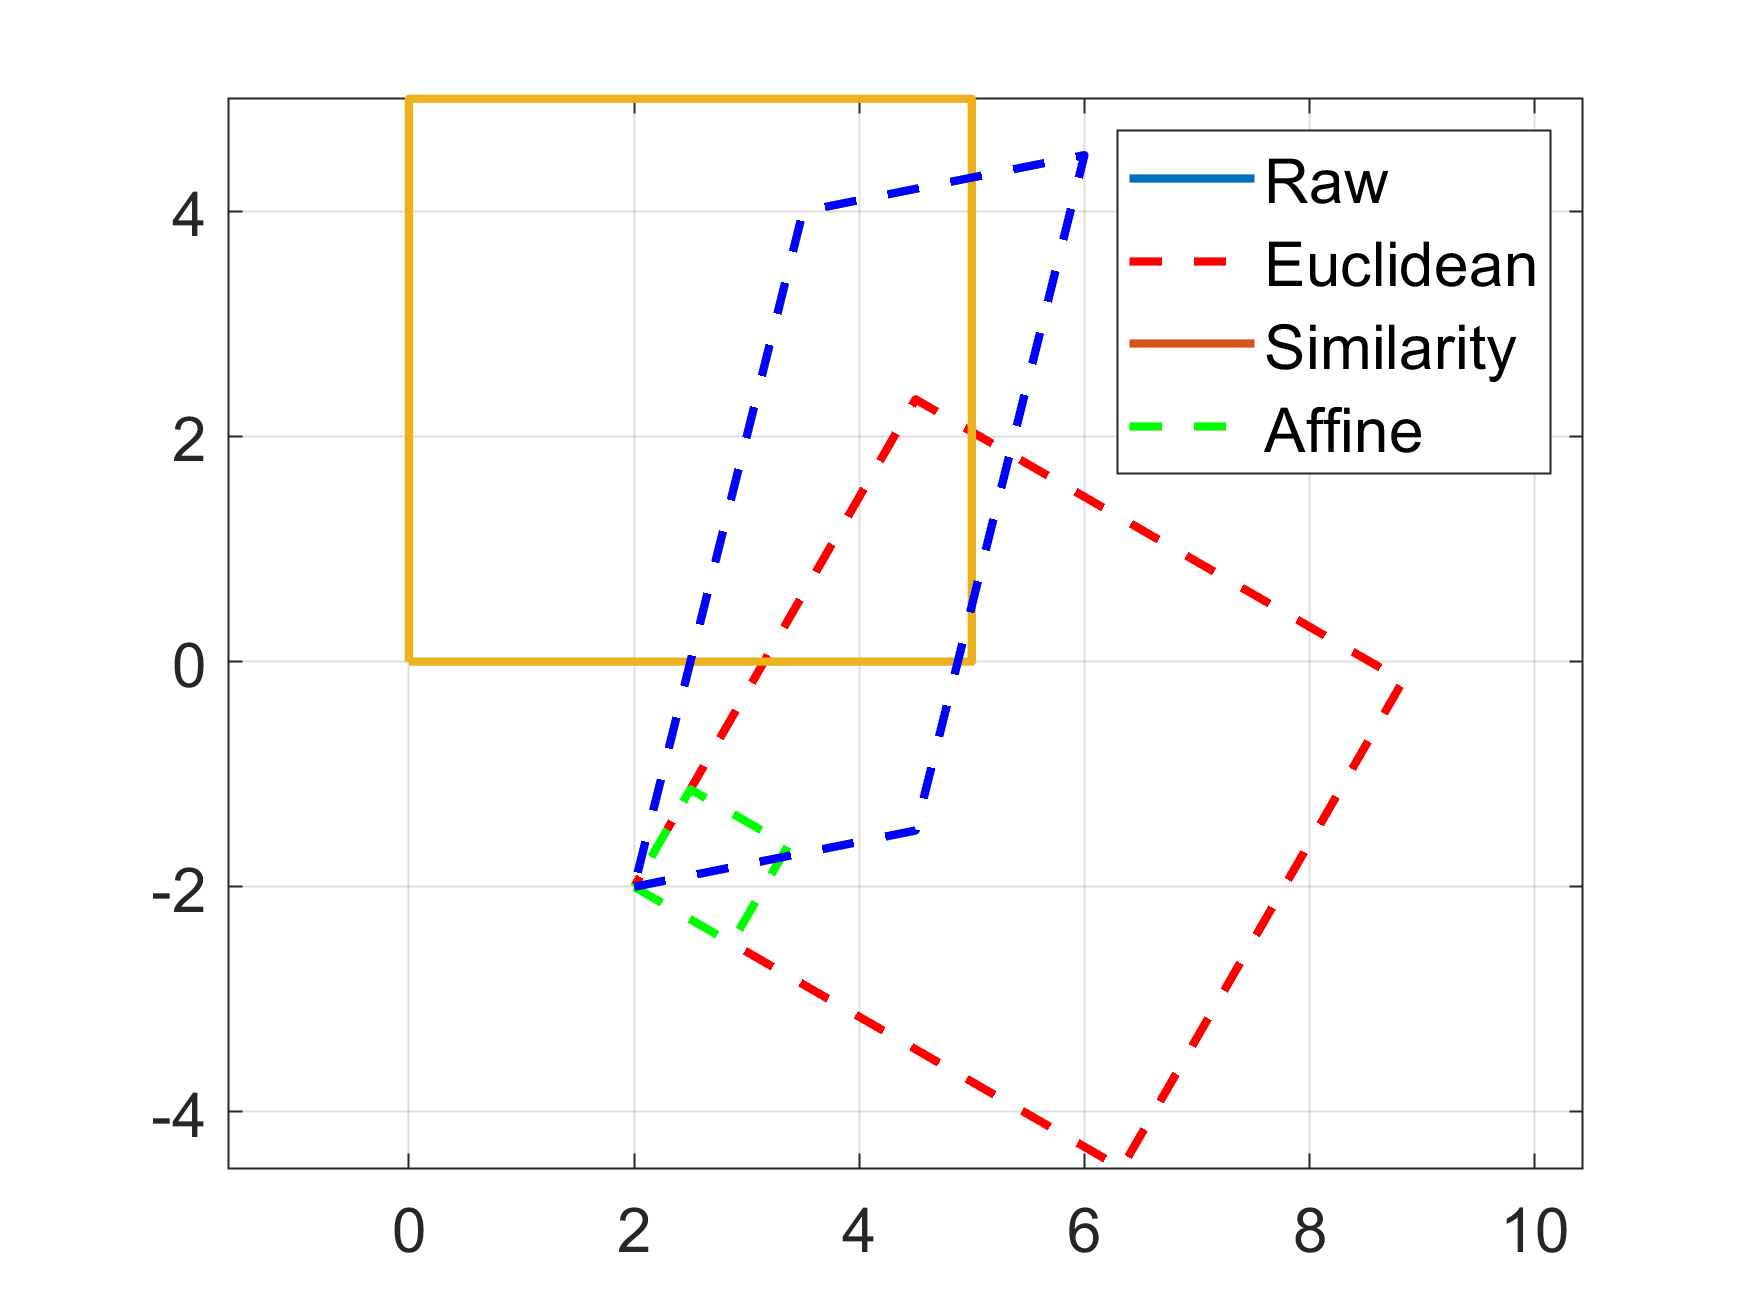
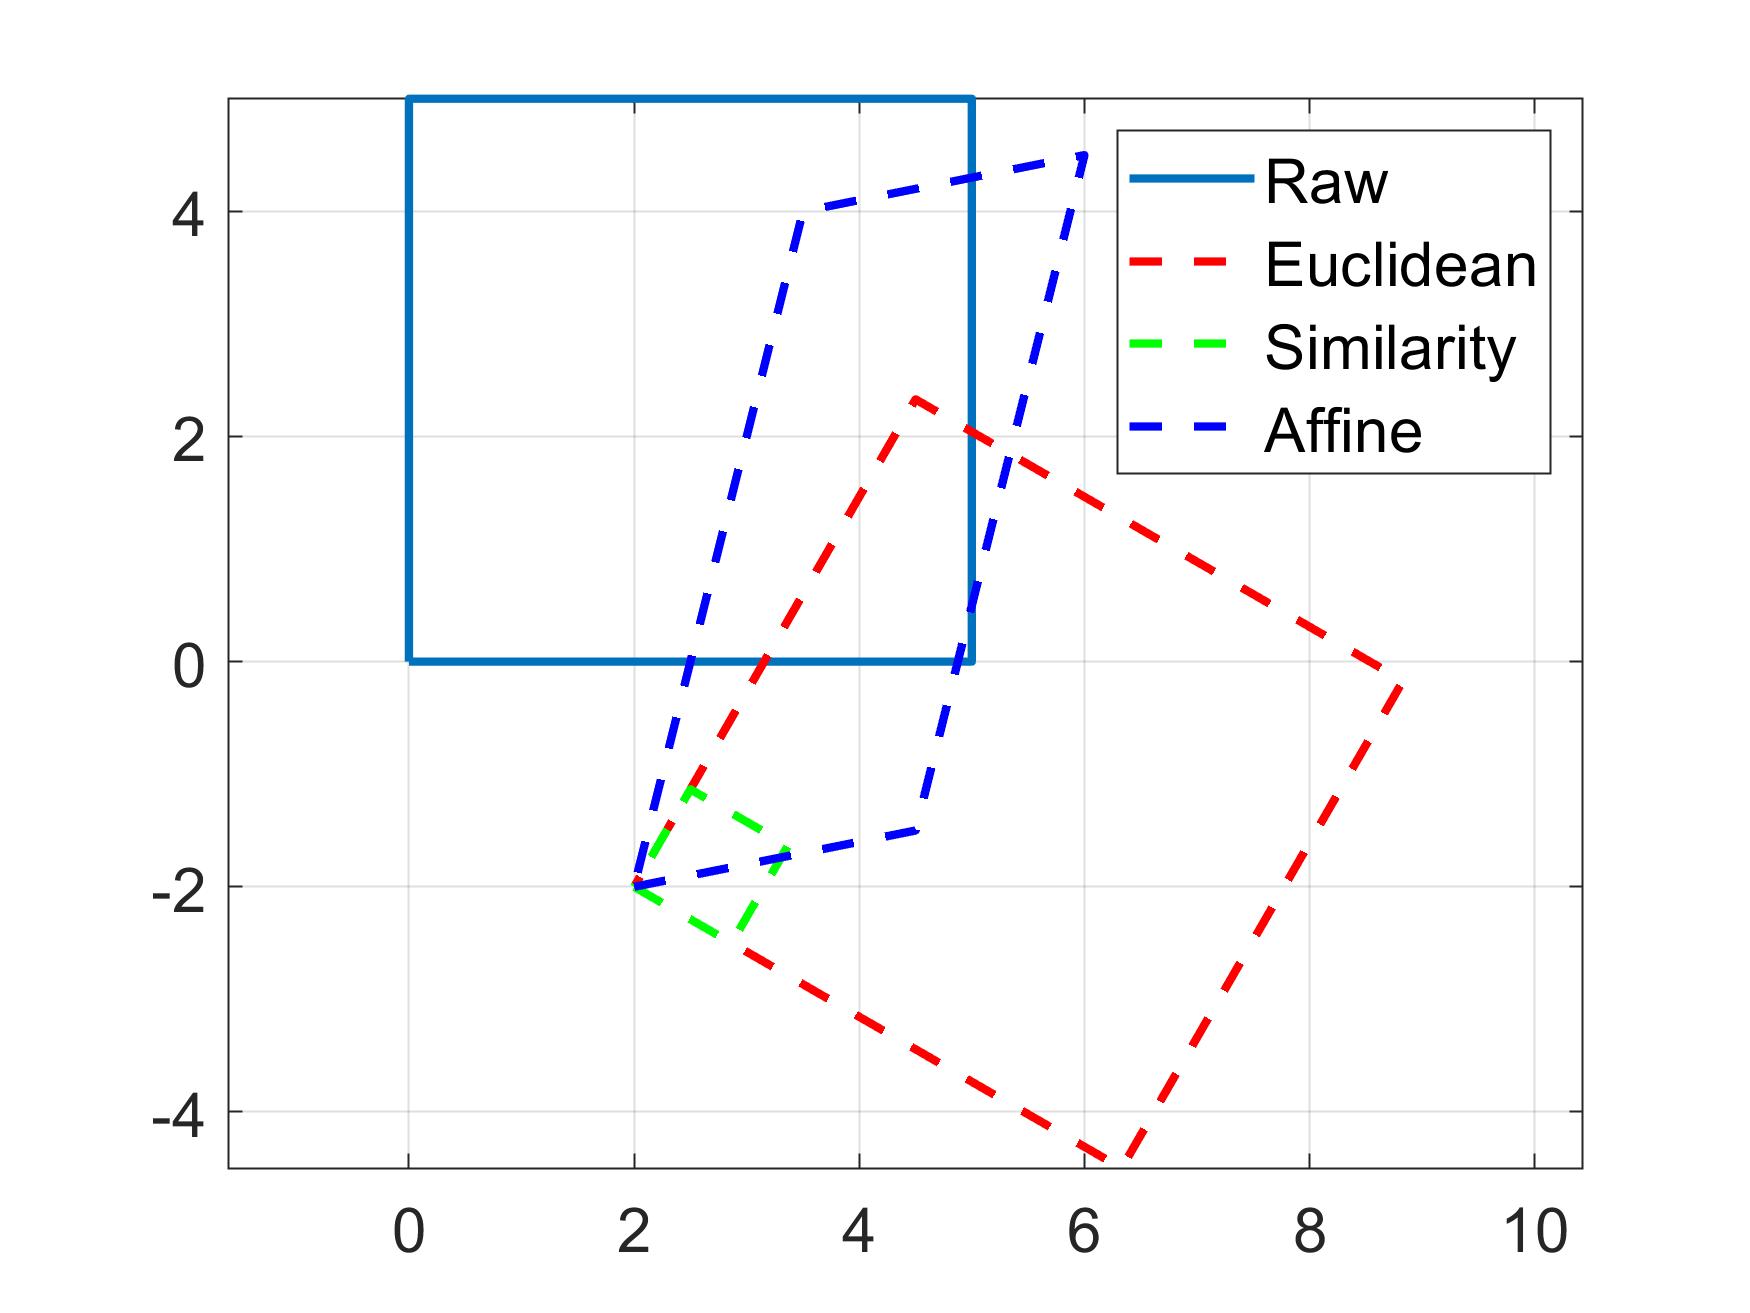
ss

Changed region(s): [[0.216, 0.0625, 0.5554, 0.5308], [0.648, 0.3123, 0.7097, 0.3435], [0.648, 0.2498, 0.7097, 0.281]]

diff --git a/Ex1/assign1.m b/Ex1/assign1.m
@@ -61,7 +61,7 @@ A = [cos(a)*s    s*sin(a)         t(1); ...
       0 0      1.0000];
 pt1 = A*pt;
 pt1 = pt1./pt1(3,:);
-plot(pt(1,:), pt(2,:), 'LineWidth', 2);hold on;
+% plot(pt(1,:), pt(2,:), 'LineWidth', 2);hold on;
 plot(pt1(1,:), pt1(2,:),'g--','LineWidth', 2);hold on;axis equal;grid on;
     
   
@@ -72,7 +72,7 @@ A = [0.5 0.3 2; ...
      0 0 1];  
 pt1 = A*pt;
 pt1 = pt1./pt1(3,:);
-plot(pt(1,:), pt(2,:), 'LineWidth', 2);hold on;
+% plot(pt(1,:), pt(2,:), 'LineWidth', 2);hold on;
 plot(pt1(1,:), pt1(2,:),'b--','LineWidth', 2);hold on;
 legend({'Raw','Euclidean','Similarity','Affine'})
 %% Q9:
